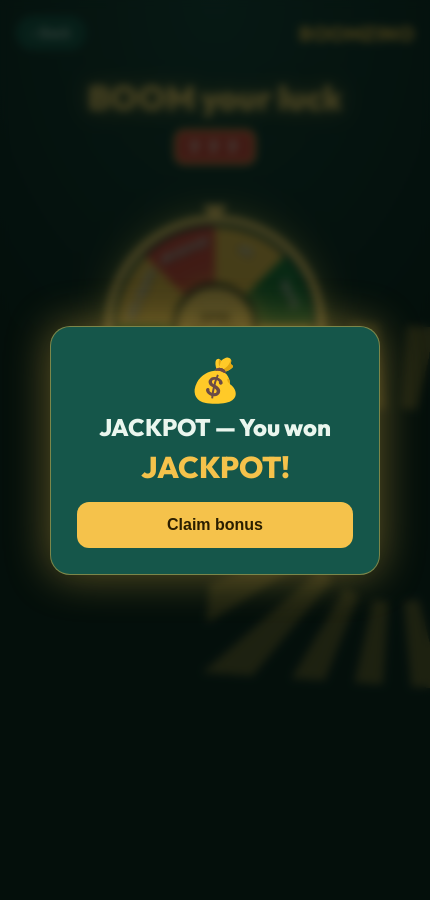
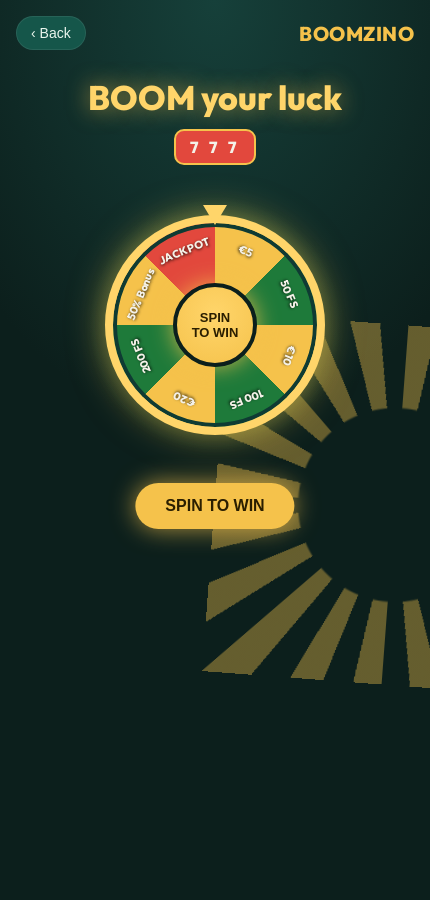
fix: keep win overlay hidden until spin completes ([hidden] display reset)

diff --git a/tests/e2e/prototypes.spec.ts b/tests/e2e/prototypes.spec.ts
@@ -21,6 +21,8 @@ test("Alchemy Lab loads standalone, has no console errors, spins to a win", asyn
   await expect(page.getByTestId("wheel-rotor")).toBeVisible();
   const spin = page.getByTestId("spin-button");
   await expect(spin).toBeVisible();
+  // win overlay must be hidden until a spin completes
+  await expect(page.getByTestId("win-burst")).toBeHidden();
   await spin.click();
   await expect(page.getByTestId("win-burst")).toBeVisible({ timeout: 10_000 });
 
@@ -48,6 +50,8 @@ test("Jackpot Boom Vault loads standalone, has no console errors, spins to a win
   await expect(page.getByTestId("wheel-rotor")).toBeVisible();
   const spin = page.getByTestId("spin-button");
   await expect(spin).toBeVisible();
+  // win overlay must be hidden until a spin completes
+  await expect(page.getByTestId("win-burst")).toBeHidden();
   await spin.click();
   await expect(page.getByTestId("win-burst")).toBeVisible({ timeout: 10_000 });
 

diff --git a/public/prototypes/boomzino.css b/public/prototypes/boomzino.css
@@ -8,6 +8,7 @@
 }
 * { box-sizing: border-box; }
 html, body { margin: 0; padding: 0; }
+[hidden] { display: none !important; }
 body {
   font-family: var(--font);
   color: var(--text);